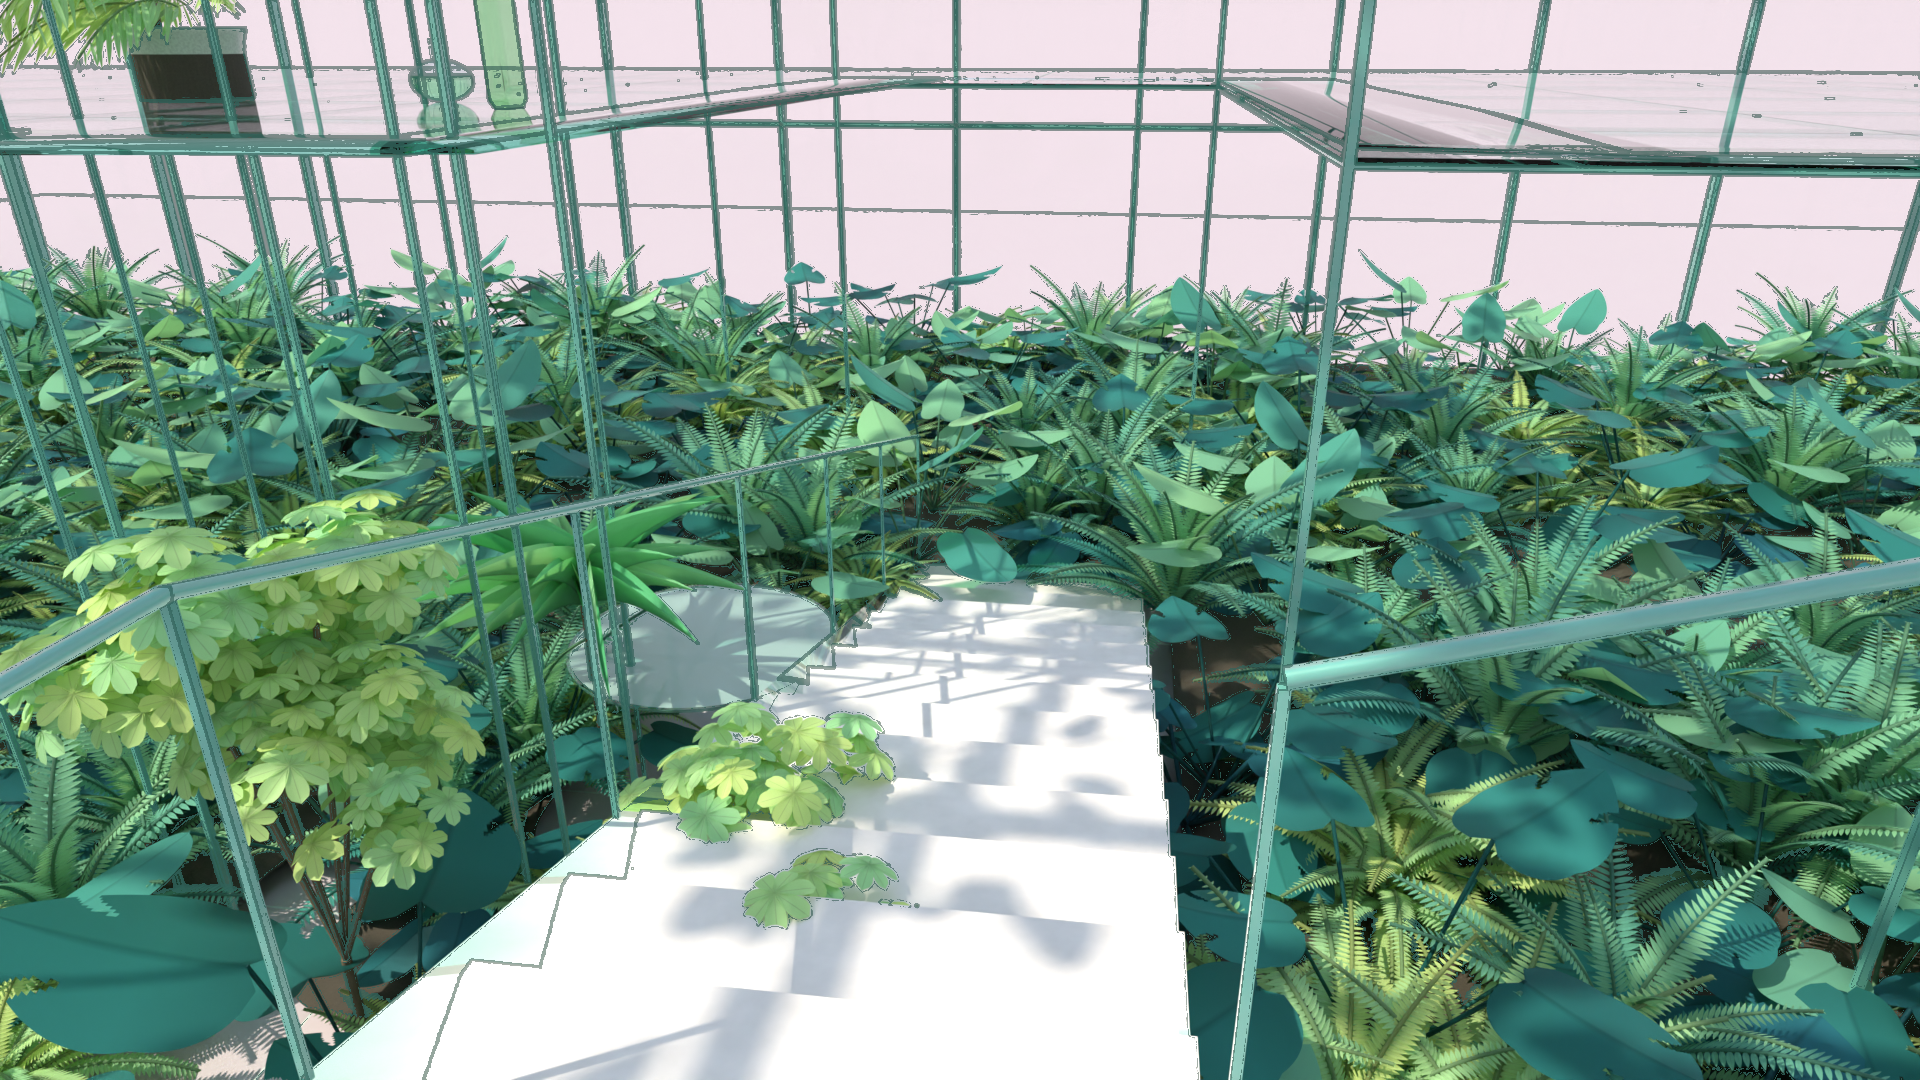
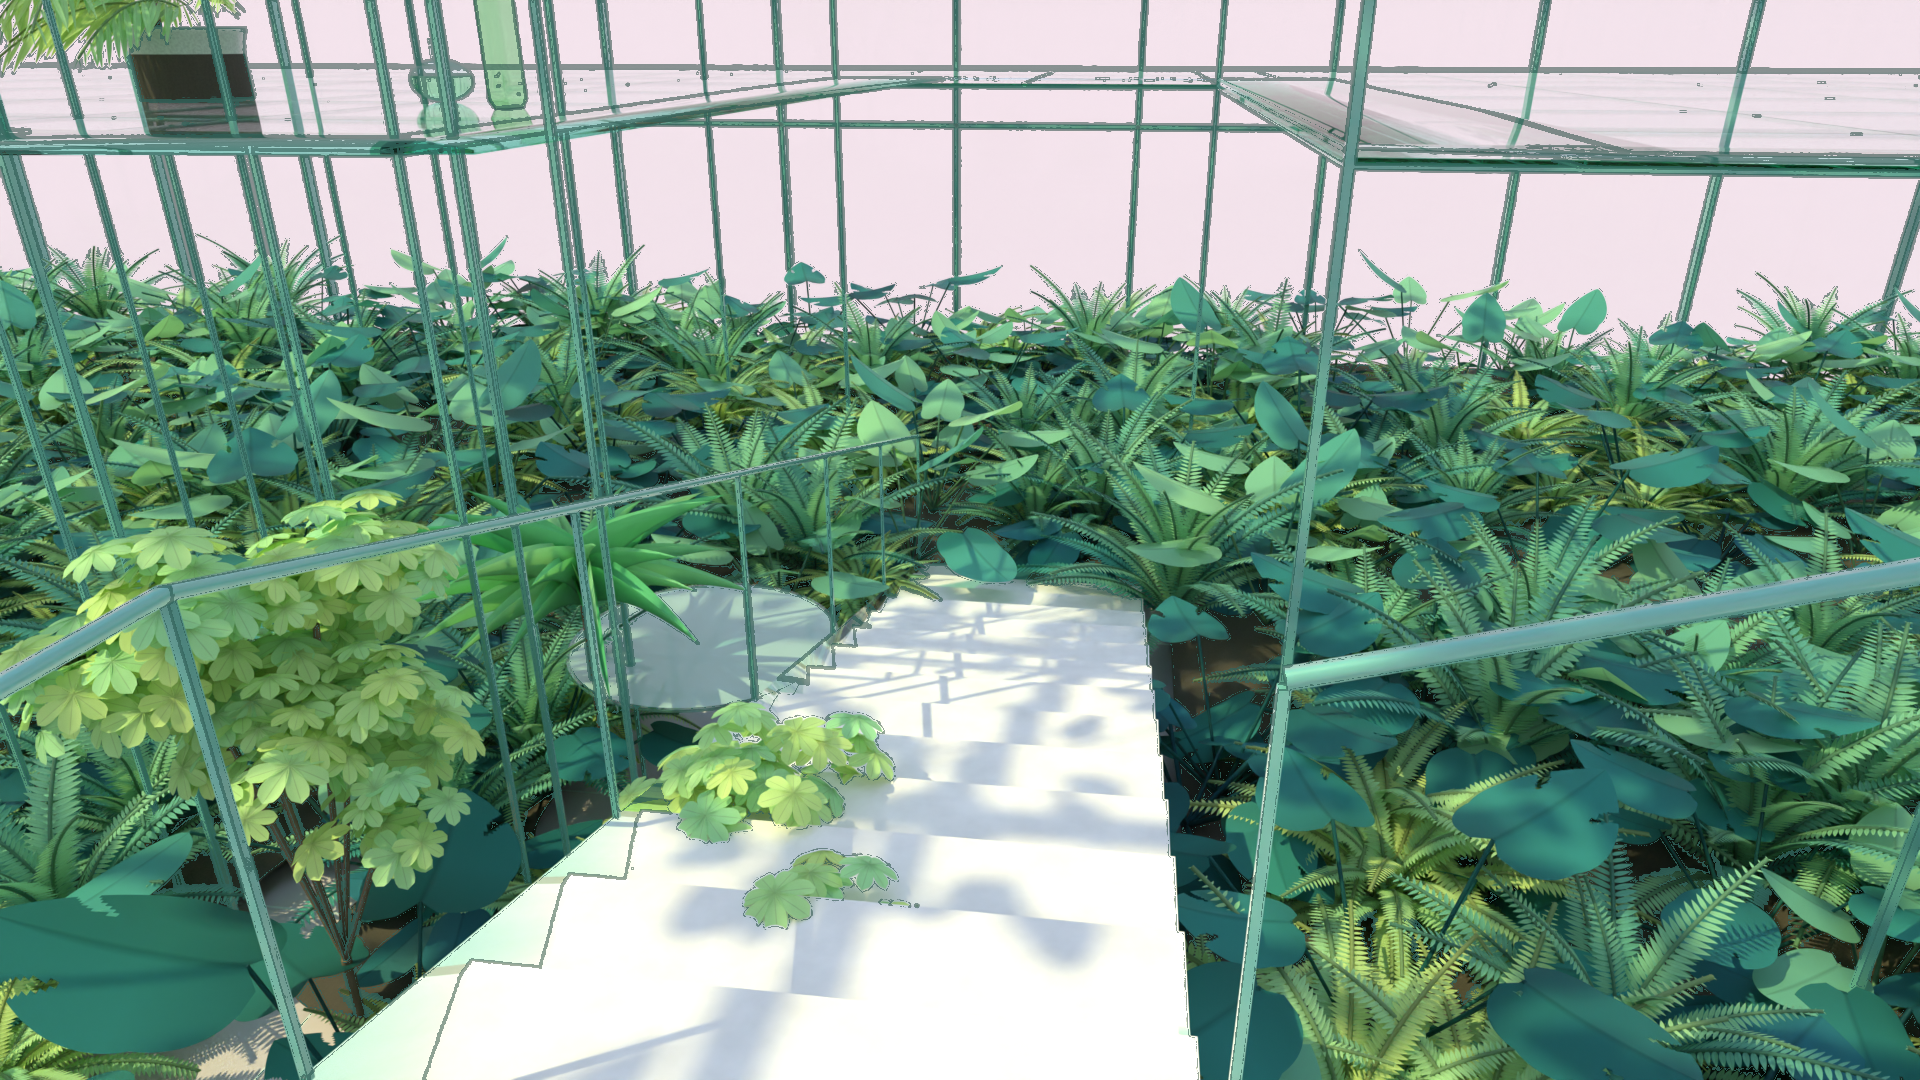
玻璃中庭：全分辨率重渲与说明更新（色调误差 0.086）

diff --git a/Other/Greenhouse/Scenes/GlassAtrium/README.md b/Other/Greenhouse/Scenes/GlassAtrium/README.md
@@ -48,12 +48,15 @@ blender -b -P Other/build.py -- Greenhouse/Scenes/GlassAtrium --view overview --
 * **画廊陈设**：每件都按原画拟合位姿——高玻璃方瓶（4 mm 薄壁绿玻璃空瓶）、扁球烧瓶（原画画成扁的，用 `Squash` 做成
   扁球体）、边桌，桌上的手机、玻璃块、玻璃球、花插按原画的角点最小二乘解出位置与朝向；栏杆内侧一盆双干散尾葵，叶子只朝
   背离机位的那一侧伸展（原画里看不到伸向机位的叶子，它下面是一片深暗的花园）。
-* **吊球**：四个开口玻璃吊球，每个球的中心和半径由原画的圆轮廓反投影解出，开口朝向机位。
+* **吊球**：四个开口玻璃吊球，每个球的中心和半径由原画的圆轮廓反投影解出，开口朝向机位；球底铺满白石子（石子数按
+  石床面积算，铺满为止），石床是内球面在填充高度处切下的球冠，不会穿出玻璃。
 * **外壳与窗外**：四面幕墙（北墙是结构胶玻璃，只有横档）和 2 m 网格玻璃屋顶。温室在 117 m 高的塔楼顶上：
   画面最上一行也在地平线以下 6°，所以窗外的粉白是阳光下的城市烟霭，不是天空。塔北侧 16 m 以下是裙楼屋顶花园，
   那些树冠按原画树冠轮廓的顶点定位（30–45 m 外）；裙楼只伸出 33 m，刚好在它的屋面升到"穿过北墙墙脚的视线"之上以前
   收住，所以屋面从来看不到，再往外视线直接落进烟霭。更远 84 m 处一栋矮楼屋顶上有一棵远树（冠宽 6.3 m，按原画那团淡影
   定大小），那栋楼同样收在视线以下；左上方是邻楼。城市烟霭是包住温室的体积（温室内部挖空），室内另有一层前向散射的薄光雾。
+  城市地面和烟霭都铺到 6 km 外：画面最上一行向下 6°，视线要到 1.2 km 外才落地——地面若在 900 m 处收边，边缘会在烟霭里
+  显出一道横线。
 
 ## 3. 原画中"反 3D"的结构与处理
 
@@ -77,19 +80,23 @@ Cycles，Standard 视图变换，不调色。
 * **玉**：框架、梁、立柱、栏杆是抛光玉石（次表面散射 + 清漆），玻璃器皿是带体积吸收的电介质玉色玻璃（正看几乎透明，
   侧看和边缘深青）；高方瓶是 4 mm 薄壁的绿玻璃空瓶，烧瓶装着淡绿的水。
 * **建筑玻璃**：镀减反射膜——反射率曲线等于 IOR 1.22 的电介质（正看约 1%，掠射时变成镜面），所以脚下的玻璃地面清透，
-  远处的地面泛白，映出粉色的墙。
+  远处的地面泛白，映出粉色的墙。无框处玻璃板对接，板边在墨线里是安静的——拼缝不是一条画线。
+* **薄玻璃里的光**：光在吊球的 3 mm 薄壁、玻璃板边里靠全反射传导，Cycles 把每次全反射都算作一次高光反弹；默认 4 次
+  高光反弹会把这些路径截断，开口的边缘渲成一圈黑。反弹上限因此是镜头数据（`render.cycles`），本镜头高光与透射各 64 次，
+  开口边缘才是原画里那一圈淡青的亮边。
 * **光穿过玻璃**：玻璃对相机光线和镜面反射光线是真实电介质；对阴影光线和漫反射光线是带色透明（菲涅尔损失 × 半壁厚的
   比尔–朗伯透射）——折射后的光本来是焦散路径，渲染器不追踪，否则阳光和天光都进不了温室。
 * **墨线**：原画是勾线的。另开一个视图层，用对象随机值 + 元素编号着色，在合成器里对身份色和法线做 Sobel 得到轮廓与折线；
   玻璃标记为可透视（只在掠射的边缘出线），植物和铺装标记为安静（不出线，并挖掉背后的线）。
 * **城市烟霭**：`GH.Smog` 用空气透视的闭式解：吸收介质 + 按密度发光。烟霭包住温室，所以室内透过每一块玻璃看到的
   也是它：它的粉光照进室内，是午后雾霭的粉色环境光（地面、踏步、高光都带着粉色）。
-* **日光**：太阳按真实大小（0.53°），九米高的藤蔓投下的光斑边缘清晰；铺地是淡紫粉色的石材。
+* **日光**：太阳按真实大小（0.53°），九米高的藤蔓投下的光斑边缘清晰。阳光穿过城市烟霭，蓝光被散射掉，是金黄的
+  (1.0, 0.9, 0.45)——原画里淡粉地面上的光斑是橙黄的，不是粉白。铺地是淡紫粉色的石材。
 
 ## 5. 灯光标定（`calibration/fit_lights.py`）
 
 光照对光源强度是线性的：日光（太阳灯 + 天空，天光是被空气散射的阳光，两者保持场景给定的比例
-`sky.sun_ratio` = 0.15——雾天水平面上约 30% 的光来自天空）、城市烟霭各放进一个 Cycles light group，一次渲染得到每组的
+`sky.sun_ratio` = 0.26——雾天水平面上约 40% 的光来自天空）、城市烟霭各放进一个 Cycles light group，一次渲染得到每组的
 线性图像，再只解每组的强度（颜色留给材质）。目标 = 1/60 画宽高斯模糊后的显示值误差 + 画面五条横带各自的 CIELAB 分位数误差
 （每条带的暗部、中间调、高光和它们的色相），Powell 多起点求最低的谷。天空若不和太阳绑定，会被拟合得比任何天空都亮，
 每块玻璃都会映出一层乳白。
@@ -104,10 +111,10 @@ python Other/Greenhouse/Scenes/GlassAtrium/calibration/fit_lights.py groups.npz 
 | 指标 | 值 |
 |------|----|
 | 结构线对齐（钢玻结构与楼梯的轮廓，逐像素到原画边缘的距离） | 中位数 2.8 px；2 px 内 44.9%，4 px 内 62.7%，8 px 内 83.7% |
-| 逐像素平均绝对误差（sRGB 0–1） | 0.188 |
-| 色调误差（1/60 画宽高斯模糊后，只看颜色与明暗分布） | 0.088 |
-| 模糊后色差 ΔE*ab | 中位数 13.6，90% 分位 26.3 |
-| 标定历程（色调误差） | 初版 0.178 → 远景烟霭 0.122 → 灯光反解 0.114 → 玻璃对漫射光透明、日光组、分带色阶 0.109 → 种植图先验土面、屋顶藤蔓日影、烟霭粉色环境光、散尾葵背向机位、方瓶内腔修正 0.088 |
+| 逐像素平均绝对误差（sRGB 0–1） | 0.182 |
+| 色调误差（1/60 画宽高斯模糊后，只看颜色与明暗分布） | 0.086 |
+| 模糊后色差 ΔE*ab | 中位数 13.2，90% 分位 25.9 |
+| 标定历程（色调误差） | 初版 0.178 → 远景烟霭 0.122 → 灯光反解 0.114 → 玻璃对漫射光透明、日光组、分带色阶 0.109 → 种植图先验土面、屋顶藤蔓日影、烟霭粉色环境光、散尾葵背向机位、方瓶内腔修正 0.088 → 金黄阳光、城市地面铺到 6 km、薄玻璃反弹上限、吊球石床 0.086 |
 
 剩余差异：逐片叶子的构成（手绘植物的位置与轮廓无法从单张画面唯一确定）；原画花园最深处的深青暗部比渲染更暗、
 阳光下的叶子更黄更亮；手绘的高光笔触和光柱强度。
